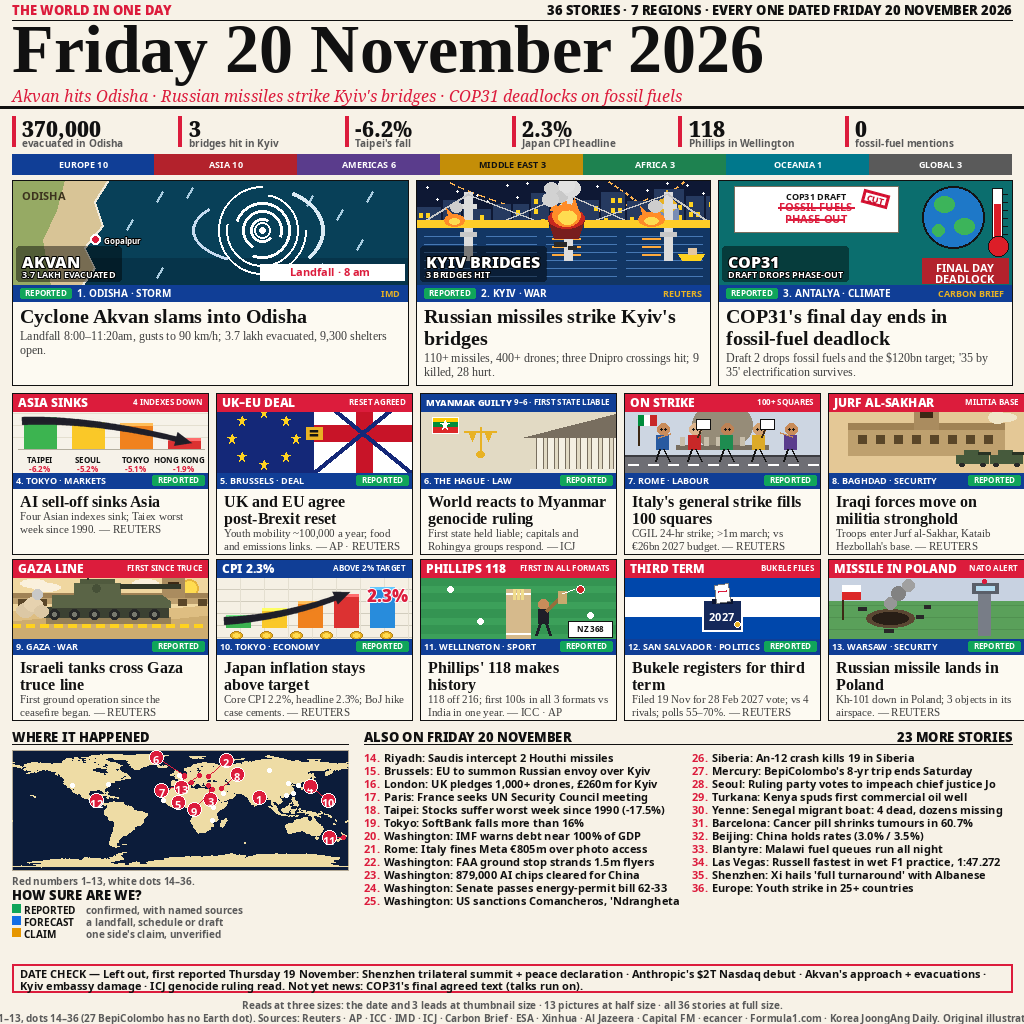
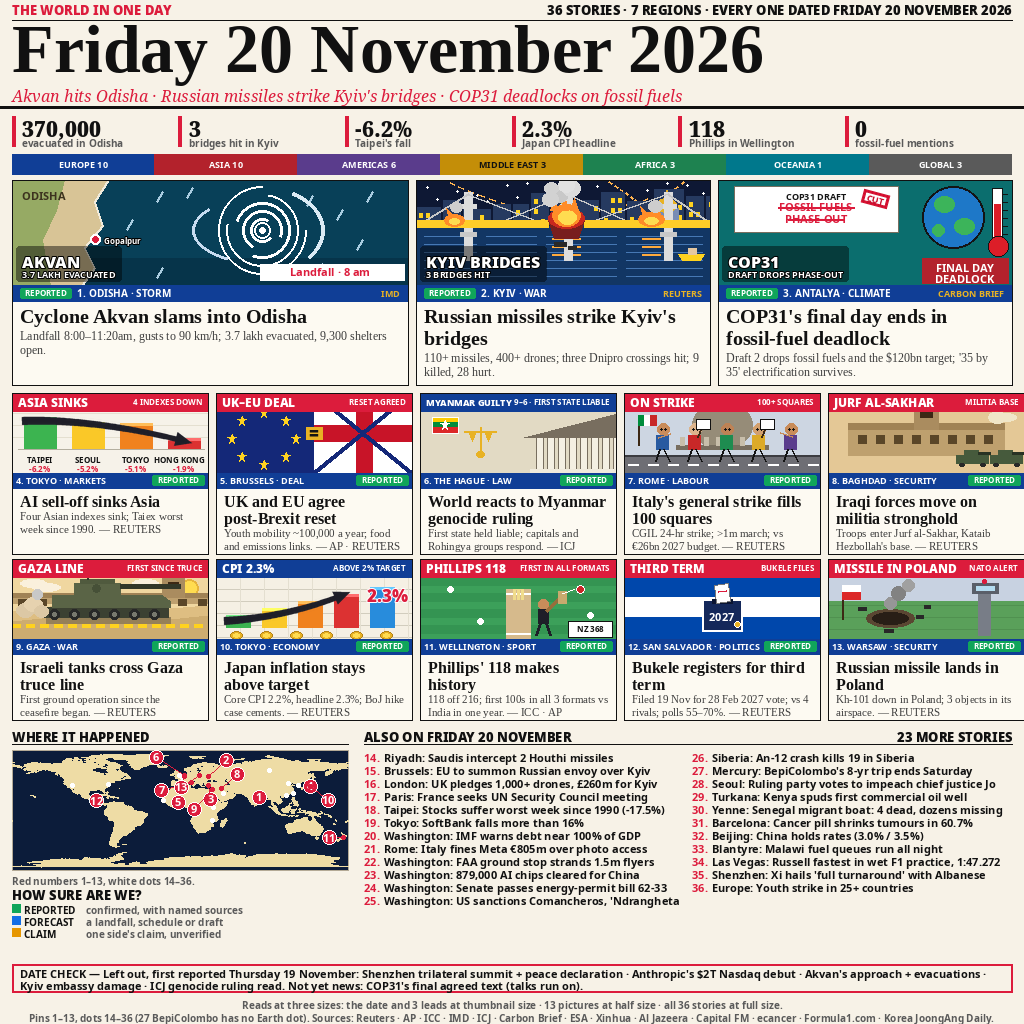
v5.5: map pin numbers centred + full typo audit

Changed region(s): [[0.0312, 0.9688, 1.0, 1.0], [0.1562, 0.75, 0.1875, 0.7812]]

diff --git a/draw.py b/draw.py
@@ -995,9 +995,14 @@ def draw_map(d, x0, y0, mw, mh):
             d.ellipse([px - 2, py - 2, px + 2, py + 2], fill=RED)
             px, py = px + dx, py + dy
         d.ellipse([px - 7, py - 7, px + 7, py + 7], fill=RED, outline="white")
+        # v5.5: number centred on the circle's exact centre by its measured
+        # ink box — the old top-anchored draw at py-5 sat every number ~2px
+        # too low (measured on v5.4: dy +1.8..+2.4 on all 13 pins).
         label = str(n)
-        label_w = d.textlength(label, font=F_PIN)
-        d.text((px - label_w / 2, py - 5), label, font=F_PIN, fill="white")
+        box = d.textbbox((0, 0), label, font=F_PIN)
+        tw, th = box[2] - box[0], box[3] - box[1]
+        d.text((px - tw / 2 - box[0], py - th / 2 - box[1]), label,
+               font=F_PIN, fill="white")
 
 
 def hero_card(img, d, story, x, y, w):
@@ -1170,10 +1175,13 @@ def main():
     d.text((512, foot_y), "Reads at three sizes: the date and 3 leads at thumbnail size · "
            "13 pictures at half size · all 36 stories at full size.",
            font=F_FOOT, fill=GREY, anchor="ma")
+    # v5.5: footer line 2 was 1074px in a 1000px centred slot — it ran off
+    # BOTH page edges ("Pins" cut left, "Original illustrat…" cut right).
+    # Dropping the 2-word credit (965px) makes it fit whole; all 13 sources kept.
     d.text((512, foot_y + 13), "Pins 1–13, dots 14–36 (27 BepiColombo has no Earth dot). "
            "Sources: Reuters · AP · ICC · IMD · ICJ · Carbon Brief · ESA · "
            "Xinhua · Al Jazeera · Capital FM · ecancer · Formula1.com · "
-           "Korea JoongAng Daily. Original illustrations.",
+           "Korea JoongAng Daily.",
            font=F_FOOT, fill=GREY, anchor="ma")
 
     out_path = os.path.join(HERE, "entry.png")
